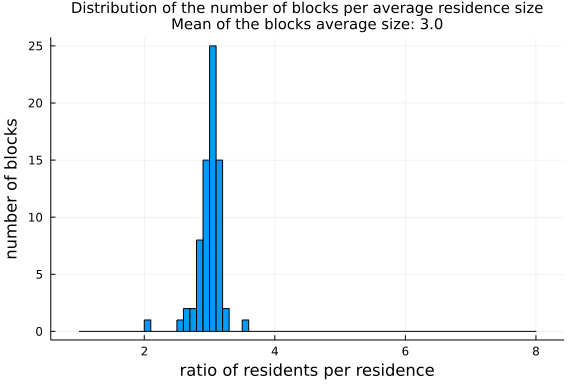
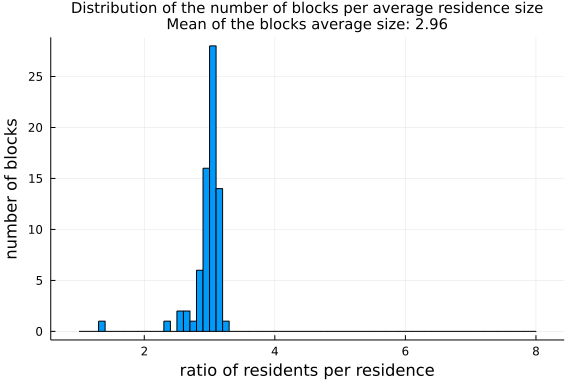
rename State to Phase

diff --git a/docs/src/examples/random_scenario.md b/docs/src/examples/random_scenario.md
@@ -275,12 +275,12 @@ res_blocks_distrib = EpiSiming.gen_res_blocks(pop_blocks, res_size_distribution)
 
 ```
 6×12 Matrix{Vector{Int64}}:
- [9, 18, 31, 19, 4, 4, 1, 0]  …  [0, 3, 3, 1, 0, 1, 0, 0]
- [3, 8, 11, 9, 1, 1, 0, 0]       [6, 16, 22, 13, 3, 3, 1, 0]
- [2, 6, 8, 5, 1, 2, 0, 0]        [6, 17, 22, 15, 4, 3, 1, 0]
- [5, 11, 15, 10, 2, 2, 0, 0]     [8, 17, 25, 17, 3, 3, 1, 0]
- [6, 13, 18, 12, 3, 2, 2, 0]     [5, 10, 17, 13, 2, 2, 0, 0]
- [6, 14, 16, 9, 2, 2, 0, 0]   …  [8, 12, 16, 11, 2, 3, 0, 0]
+ [9, 18, 31, 19, 4, 4, 1, 0]  …  [1, 4, 4, 1, 0, 0, 0, 0]
+ [3, 9, 11, 7, 1, 2, 0, 0]       [6, 14, 20, 14, 3, 4, 1, 0]
+ [3, 5, 7, 6, 1, 2, 0, 0]        [7, 15, 23, 15, 4, 3, 1, 0]
+ [6, 12, 14, 10, 2, 2, 0, 0]     [8, 16, 25, 16, 3, 4, 1, 0]
+ [6, 16, 20, 12, 2, 2, 1, 0]     [5, 11, 19, 11, 2, 2, 0, 0]
+ [4, 11, 15, 10, 2, 2, 1, 0]  …  [5, 13, 18, 10, 3, 2, 0, 0]
 ```
 
 
@@ -330,7 +330,7 @@ residences = EpiSiming.gen_residences(rng, res_blocks_distrib)
 ```
 
 ```
-3297-element EpiSiming.Residences{Int64, Float64}:
+3299-element EpiSiming.Residences{Int64, Float64}:
  (1, (1.5555555555555556, 1.3888888888888888), 1, [1])
  (1, (1.5, 1.0), 1, [2])
  (1, (1.5, 1.5), 1, [3])
@@ -342,19 +342,18 @@ residences = EpiSiming.gen_residences(rng, res_blocks_distrib)
  (1, (1.6111111111111112, 1.6111111111111112), 1, [9])
  (1, (1.7222222222222223, 1.7222222222222223), 2, [10, 11])
  ⋮
- (72, (6.0, 12.357142857142858), 4, [9957, 9958, 9959, 9960])
- (72, (6.357142857142857, 12.285714285714286), 4, [9961, 9962, 9963, 9964])
- (72, (6.142857142857143, 12.214285714285714), 4, [9965, 9966, 9967, 9968])
- (72, (6.142857142857143, 12.571428571428571), 4, [9969, 9970, 9971, 9972])
- (72, (6.357142857142857, 12.857142857142858), 5, [9973, 9974, 9975, 9976, 
-9977])
- (72, (6.428571428571429, 12.285714285714286), 5, [9978, 9979, 9980, 9981, 
-9982])
- (72, (6.285714285714286, 12.214285714285714), 6, [9983, 9984, 9985, 9986, 
-9987, 9988])
- (72, (6.642857142857143, 12.071428571428571), 6, [9989, 9990, 9991, 9992, 
-9993, 9994])
- (72, (6.857142857142857, 12.857142857142858), 6, [9995, 9996, 9997, 9998, 
+ (72, (6.142857142857143, 12.285714285714286), 4, [9958, 9959, 9960, 9961])
+ (72, (6.0, 12.571428571428571), 4, [9962, 9963, 9964, 9965])
+ (72, (6.357142857142857, 12.857142857142858), 4, [9966, 9967, 9968, 9969])
+ (72, (6.928571428571429, 12.142857142857142), 4, [9970, 9971, 9972, 9973])
+ (72, (6.071428571428571, 12.214285714285714), 5, [9974, 9975, 9976, 9977, 
+9978])
+ (72, (6.428571428571429, 12.071428571428571), 5, [9979, 9980, 9981, 9982, 
+9983])
+ (72, (6.857142857142857, 12.857142857142858), 5, [9984, 9985, 9986, 9987, 
+9988])
+ (72, (6.857142857142857, 12.5), 6, [9989, 9990, 9991, 9992, 9993, 9994])
+ (72, (6.214285714285714, 12.214285714285714), 6, [9995, 9996, 9997, 9998, 
 9999, 10000])
 ```
 
@@ -422,58 +421,46 @@ population = EpiSiming.gen_population(
 ```
 
 ```
-10000-element EpiSiming.Population{Int64, EpiSiming.State}:
- (SUSCEPTIBLE, 1, 1, (1.5694444444444444, 1.3888888888888888), 41, 0.842966
-8909281123, 1.0871421914278978, Dict{Symbol, Int64}(), Dict{Symbol, Int64}(
-))
- (SUSCEPTIBLE, 1, 2, (1.5138888888888888, 1.0), 6, 0.6346032739780121, 0.92
-88554210581556, Dict{Symbol, Int64}(), Dict{Symbol, Int64}())
- (SUSCEPTIBLE, 1, 3, (1.5138888888888888, 1.5), 12, 1.866136384893467, 0.63
-79958240264992, Dict{Symbol, Int64}(), Dict{Symbol, Int64}())
- (SUSCEPTIBLE, 1, 4, (1.7361111111111112, 1.2222222222222223), 55, 1.963007
-0493538805, 0.49089045628844613, Dict{Symbol, Int64}(), Dict{Symbol, Int64}
-())
- (SUSCEPTIBLE, 1, 5, (1.9583333333333333, 1.5), 22, 0.17974072857925905, 0.
-9196908284361106, Dict{Symbol, Int64}(), Dict{Symbol, Int64}())
- (SUSCEPTIBLE, 1, 6, (1.347222222222222, 1.7777777777777777), 2, 0.80184402
-04599591, 0.8572836161482715, Dict{Symbol, Int64}(), Dict{Symbol, Int64}())
- (SUSCEPTIBLE, 1, 7, (1.5694444444444444, 1.0555555555555556), 22, 0.712199
-1800323644, 1.4273823226339426, Dict{Symbol, Int64}(), Dict{Symbol, Int64}(
-))
- (SUSCEPTIBLE, 1, 8, (1.5694444444444444, 1.2777777777777777), 10, 0.780380
-3598677808, 0.7458566679008322, Dict{Symbol, Int64}(), Dict{Symbol, Int64}(
-))
- (SUSCEPTIBLE, 1, 9, (1.625, 1.6111111111111112), 14, 0.7533507391116316, 1
-.0597501527579962, Dict{Symbol, Int64}(), Dict{Symbol, Int64}())
- (SUSCEPTIBLE, 1, 10, (1.7361111111111112, 1.7222222222222223), 86, 1.05837
-84725947785, 0.6163376056877701, Dict{Symbol, Int64}(), Dict{Symbol, Int64}
-())
+10000-element EpiSiming.Population{Int64, EpiSiming.Phase}:
+ (S, 1, 1, (1.5694444444444444, 1.3888888888888888), 12, 0.8429668909281123
+, 1.0871421914278978, Dict{Symbol, Int64}(), Dict{Symbol, Int64}())
+ (S, 1, 2, (1.5138888888888888, 1.0), 55, 0.6346032739780121, 0.92885542105
+81556, Dict{Symbol, Int64}(), Dict{Symbol, Int64}())
+ (S, 1, 3, (1.5138888888888888, 1.5), 67, 1.866136384893467, 0.637995824026
+4992, Dict{Symbol, Int64}(), Dict{Symbol, Int64}())
+ (S, 1, 4, (1.7361111111111112, 1.2222222222222223), 18, 1.9630070493538805
+, 0.49089045628844613, Dict{Symbol, Int64}(), Dict{Symbol, Int64}())
+ (S, 1, 5, (1.9583333333333333, 1.5), 21, 0.17974072857925905, 0.9196908284
+361106, Dict{Symbol, Int64}(), Dict{Symbol, Int64}())
+ (S, 1, 6, (1.347222222222222, 1.7777777777777777), 10, 0.8018440204599591,
+ 0.8572836161482715, Dict{Symbol, Int64}(), Dict{Symbol, Int64}())
+ (S, 1, 7, (1.5694444444444444, 1.0555555555555556), 14, 0.7121991800323644
+, 1.4273823226339426, Dict{Symbol, Int64}(), Dict{Symbol, Int64}())
+ (S, 1, 8, (1.5694444444444444, 1.2777777777777777), 35, 0.7803803598677808
+, 0.7458566679008322, Dict{Symbol, Int64}(), Dict{Symbol, Int64}())
+ (S, 1, 9, (1.625, 1.6111111111111112), 23, 0.7533507391116316, 1.059750152
+7579962, Dict{Symbol, Int64}(), Dict{Symbol, Int64}())
+ (S, 1, 10, (1.7361111111111112, 1.7222222222222223), 36, 1.058378472594778
+5, 0.6163376056877701, Dict{Symbol, Int64}(), Dict{Symbol, Int64}())
  ⋮
- (SUSCEPTIBLE, 1, 3296, (6.625, 12.071428571428571), 67, 0.7425559871162212
-, 1.878529197903739, Dict{Symbol, Int64}(), Dict{Symbol, Int64}())
- (SUSCEPTIBLE, 1, 3296, (6.633928571428572, 12.055963832075278), 37, 1.3467
-418715174564, 0.6158224898743601, Dict{Symbol, Int64}(), Dict{Symbol, Int64
-}())
- (SUSCEPTIBLE, 1, 3296, (6.651785714285714, 12.055963832075278), 17, 0.5713
-254684769675, 1.2604338561736381, Dict{Symbol, Int64}(), Dict{Symbol, Int64
-}())
- (SUSCEPTIBLE, 1, 3297, (6.875, 12.857142857142858), 40, 0.71166954083545, 
-0.6573989249359745, Dict{Symbol, Int64}(), Dict{Symbol, Int64}())
- (SUSCEPTIBLE, 1, 3297, (6.866071428571428, 12.87260759649615), 23, 0.92991
-23501842387, 0.5603267260793015, Dict{Symbol, Int64}(), Dict{Symbol, Int64}
-())
- (SUSCEPTIBLE, 1, 3297, (6.848214285714286, 12.87260759649615), 59, 0.34954
-78705397754, 0.7703472343146436, Dict{Symbol, Int64}(), Dict{Symbol, Int64}
-())
- (SUSCEPTIBLE, 1, 3297, (6.8392857142857135, 12.857142857142858), 63, 0.694
-6812843355863, 2.073824042353887, Dict{Symbol, Int64}(), Dict{Symbol, Int64
-}())
- (SUSCEPTIBLE, 1, 3297, (6.848214285714286, 12.841678117789565), 14, 1.1293
-777785439765, 1.4010740192330449, Dict{Symbol, Int64}(), Dict{Symbol, Int64
-}())
- (SUSCEPTIBLE, 1, 3297, (6.866071428571428, 12.841678117789565), 23, 0.8959
-454204650464, 1.9864694366090996, Dict{Symbol, Int64}(), Dict{Symbol, Int64
-}())
+ (S, 1, 3298, (6.8392857142857135, 12.5), 17, 0.7425559871162212, 1.8785291
+97903739, Dict{Symbol, Int64}(), Dict{Symbol, Int64}())
+ (S, 1, 3298, (6.848214285714286, 12.484535260646707), 41, 1.34674187151745
+64, 0.6158224898743601, Dict{Symbol, Int64}(), Dict{Symbol, Int64}())
+ (S, 1, 3298, (6.866071428571428, 12.484535260646707), 23, 0.57132546847696
+75, 1.2604338561736381, Dict{Symbol, Int64}(), Dict{Symbol, Int64}())
+ (S, 1, 3299, (6.232142857142858, 12.214285714285714), 59, 0.71166954083545
+, 0.6573989249359745, Dict{Symbol, Int64}(), Dict{Symbol, Int64}())
+ (S, 1, 3299, (6.223214285714286, 12.229750453639006), 63, 0.92991235018423
+87, 0.5603267260793015, Dict{Symbol, Int64}(), Dict{Symbol, Int64}())
+ (S, 1, 3299, (6.205357142857143, 12.229750453639006), 14, 0.34954787053977
+54, 0.7703472343146436, Dict{Symbol, Int64}(), Dict{Symbol, Int64}())
+ (S, 1, 3299, (6.196428571428571, 12.214285714285714), 23, 0.69468128433558
+63, 2.073824042353887, Dict{Symbol, Int64}(), Dict{Symbol, Int64}())
+ (S, 1, 3299, (6.205357142857143, 12.19882097493242), 49, 1.129377778543976
+5, 1.4010740192330449, Dict{Symbol, Int64}(), Dict{Symbol, Int64}())
+ (S, 1, 3299, (6.223214285714286, 12.19882097493242), 14, 0.895945420465046
+4, 1.9864694366090996, Dict{Symbol, Int64}(), Dict{Symbol, Int64}())
 ```
 
 
@@ -582,7 +569,7 @@ display(plt)
 display(
     scatter(
         population.position,
-        c = map(s -> EpiSiming.state_colors[s], population.state),
+        c = map(s -> EpiSiming.phase_colors[s], population.phase),
         markersize = 1,
         markerstrokecolor = :auto,
         label = false,
@@ -597,7 +584,7 @@ display(
     scatter(
         filter(p -> (3.0 < first(p) < 4.0) & (1.0 < last(p) < 2.0), population.position),
         c = map(
-            n -> EpiSiming.state_colors[population.state[n]],
+            n -> EpiSiming.phase_colors[population.phase[n]],
             filter(
                 n -> (3.0 < first(population.position[n]) < 4.0) &
                     (1.0 < last(population.position[n]) < 2.0),
@@ -618,7 +605,7 @@ display(
     scatter(
         filter(p -> (3.2 < first(p) < 3.8) & (1.2 < last(p) < 1.8), population.position),
         c = map(
-            n -> EpiSiming.state_colors[population.state[n]],
+            n -> EpiSiming.phase_colors[population.phase[n]],
             filter(
                 n -> (3.2 < first(population.position[n]) < 3.8) &
                     (1.2 < last(population.position[n]) < 1.8),
@@ -730,33 +717,33 @@ num_exposed_at_time_0 = div(num_population, 500) # (= 0.2%) 20
 
 exposed_at_time_0 = sample(rng, 1:num_population, num_exposed_at_time_0, replace = false)
 
-population.state[exposed_at_time_0] .= EXPOSED
+population.phase[exposed_at_time_0] .= EXPOSED
 ```
 
 ```
-20-element view(::Vector{EpiSiming.State}, [9536, 1530, 3568, 9472, 9583, 1
-145, 3449, 4763, 8785, 5427, 9500, 8014, 3970, 7360, 2089, 9943, 3472, 799,
- 6673, 2556]) with eltype EpiSiming.State:
- EXPOSED
- EXPOSED
- EXPOSED
- EXPOSED
- EXPOSED
- EXPOSED
- EXPOSED
- EXPOSED
- EXPOSED
- EXPOSED
- EXPOSED
- EXPOSED
- EXPOSED
- EXPOSED
- EXPOSED
- EXPOSED
- EXPOSED
- EXPOSED
- EXPOSED
- EXPOSED
+20-element view(::Vector{EpiSiming.Phase}, [3568, 9472, 9583, 1145, 3449, 4
+763, 8785, 5427, 9500, 8014, 3970, 7360, 2089, 9943, 3472, 799, 6673, 2556,
+ 6251, 4044]) with eltype EpiSiming.Phase:
+ E
+ E
+ E
+ E
+ E
+ E
+ E
+ E
+ E
+ E
+ E
+ E
+ E
+ E
+ E
+ E
+ E
+ E
+ E
+ E
 ```
 
 
@@ -796,29 +783,29 @@ time_step = 1
 ```
 
 ```
-2.314789 seconds (2.82 k allocations: 20.293 MiB)
-  0.171603 seconds (2 allocations: 19.766 KiB)
+2.668842 seconds (2.82 k allocations: 20.293 MiB)
+  0.265407 seconds (2 allocations: 19.766 KiB)
 360×7 Matrix{Int64}:
- 9980  20   0   0     0  0   0
- 9980  14   2   4     0  0   0
- 9976  12   4   8     0  0   0
- 9972  14   4   7     3  0   0
- 9967  16   5   7     5  0   0
- 9963  16   8   8     5  0   0
- 9958  18   9   8     7  0   0
- 9952  21  10   9     8  0   0
- 9947  18  11  12    12  0   0
- 9941  20  12  12    15  0   0
+ 9980  20   0  0     0   0  0
+ 9980  15   1  4     0   0  0
+ 9976  13   3  8     0   0  0
+ 9973  14   3  8     2   0  0
+ 9969  16   4  7     4   0  0
+ 9964  17   6  8     5   0  0
+ 9963  12   9  9     7   0  0
+ 9961  13  10  7     9   0  0
+ 9956  14   9  8    13   0  0
+ 9952  15  10  7    16   0  0
     ⋮                    ⋮  
- 5106   0   1   0  4864  0  29
- 5106   0   1   0  4864  0  29
- 5106   0   1   0  4864  0  29
- 5106   0   1   0  4864  0  29
- 5106   0   0   0  4865  0  29
- 5106   0   0   0  4865  0  29
- 5106   0   0   0  4865  0  29
- 5106   0   0   0  4865  0  29
- 5106   0   0   0  4865  0  29
+ 4661   5   9  3  5278  44  0
+ 4660   4   9  4  5279  44  0
+ 4660   3  10  3  5280  44  0
+ 4660   3   8  3  5282  44  0
+ 4657   5   9  2  5283  44  0
+ 4657   4   8  3  5284  44  0
+ 4655   6   8  3  5284  44  0
+ 4652   6  10  3  5285  44  0
+ 4651   6   7  2  5290  44  0
 ```
 
 
@@ -830,7 +817,7 @@ Visualizations
 display(
     plot(
         summary[:, 2:end],
-        labels = string.(reduce(hcat, EpiSiming.statelist[2:end])),
+        labels = string.(reduce(hcat, EpiSiming.phaselist[2:end])),
         legend = :left,
         xlabel = "day",
         ylabel = "cases",
@@ -841,8 +828,8 @@ display(
 
 display(
     plot(
-        summary[:, [2, 3, 4, 7]],
-        labels = string.(reduce(hcat, EpiSiming.statelist[[2, 3, 4, 7]])),
+        summary[:, [2, 3, 4, 6]],
+        labels = string.(reduce(hcat, EpiSiming.phaselist[[2, 3, 4, 6]])),
         legend = :right,
         xlabel = "day",
         ylabel = "cases",

diff --git a/docs/src/structures.md b/docs/src/structures.md
@@ -4,16 +4,16 @@ CurrentModule = EpiSiming
 
 # Structures
 
-## Epidemic stages
+## Epidemic phases for an individual
 
-We define a primitive type which uses a single byte (8 bits) to reduce the memory usage. That is the smallest possible size for a primitive type. Even Bools are 8 bits. The only thing that uses less memory is BitVector, but that is a ... Vector, not a singleton.
+We define a type to hold the epidemic phase of an individual (e.g. asymptotic, exposed, infected, recovered, and so on). This type is defined as a primitive type which uses a single byte (8 bits), in order to reduce the memory usage. That is the smallest possible size for a primitive type. Even Bools are 8 bits. The only information entity that uses less memory is BitVector, but that is a Vector, not a singleton.
 
-We could also use straight `Int8` to represent the states, but the nice thing about defining a new type is that we can define how it is displayed. So, the SUSCEPTIBLE state can be displayed as "SUSCEPTIBLE" or "S", instead of say "0". Imagine figuring out whether "5" is RECOVERED, QUARENTINED or DECEASED.
+We could have used straight `Int8` to represent the phases of the disease, but defining a new type has the advantage of allowing us to overload `Base.show` to display the phase in a more friendly and recognizable way. So, the SUSCEPTIBLE state can be displayed as "SUSCEPTIBLE" or "S", instead of say "0". Imagine figuring out whether "5" is RECOVERED or DECEASED.
 
 We make the primitive type a subtype of Number to make it easier for insertion on Vectors (e.g. if `u` is a vector of State, we can do `u .= SUSCEPTIBLE`).
 
 ```@docs
-State
+Phase
 ```
 
 ## Residences
